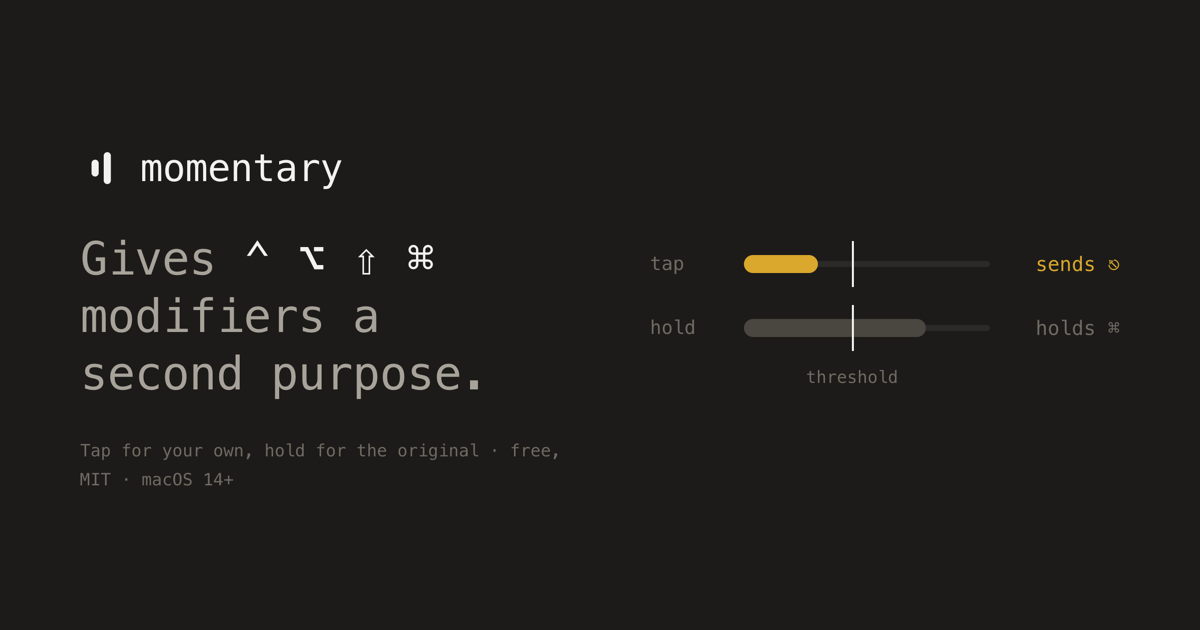
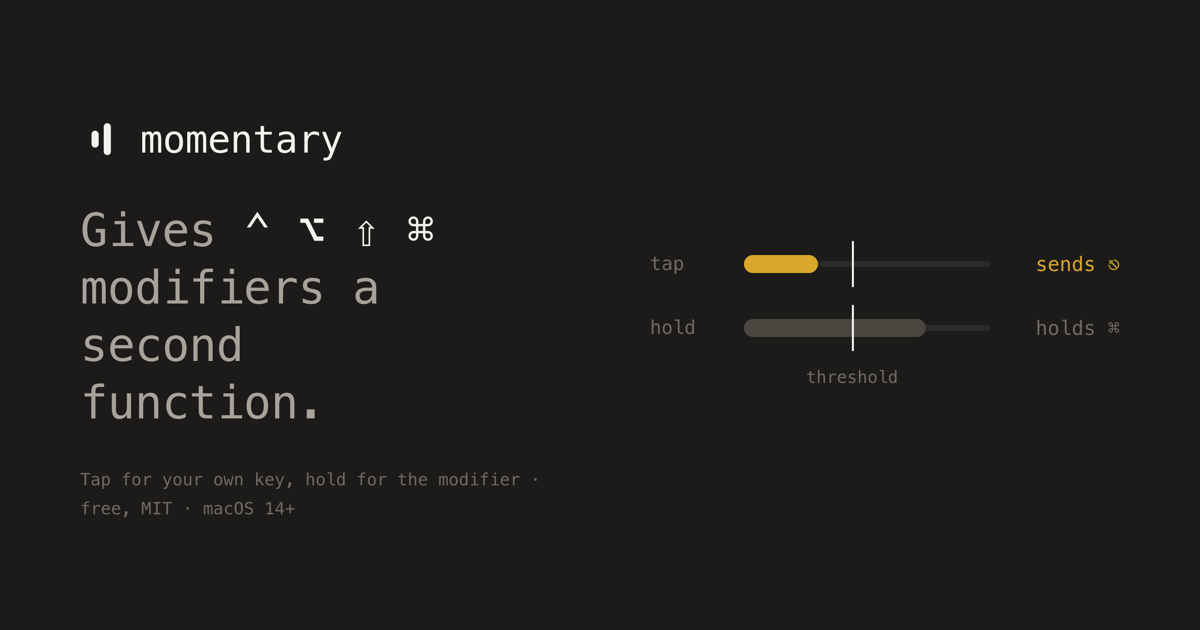
Tighten the landing page
The version is fetched from the releases API instead of written into the
page, the way Keychange's is, so it is right the moment a release is
published. It sits at the front of the install note, which lets the
hardcoded "version 1.0" leave the top bar — it was wrong anyway.

The install row was two boxes tall because the Homebrew command wrapped
and the Download button stretched to match it. The command no longer
wraps and scrolls inside itself instead; below 640px the two stack, full
width. The stacked column has to be `flex-wrap: nowrap`: a wrapping
column flex container sizes its line to the items rather than the page,
so the command kept its full width and took the page's horizontal
scrollbar with it. The button lost its file size and is half as wide.

The footer matches Keychange's on all four pages, and the Keychange
cross-link it used to carry became a section of its own above it — the
same panel-and-hairline surface as the rest of the page, no amber and no
app icon, since amber follows the tap and the settings panel is meant to
be the only light object here.

New slogan throughout: "a second function", "tap for your own key, hold
for the modifier". og.png is regenerated from og.html rather than edited,
so the share card does not keep showing the old wording.

Claude-Session: https://claude.ai/code/session_01WeaS6isy7We31c7dQWmthK

diff --git a/docs/index.html b/docs/index.html
@@ -3,19 +3,19 @@
 <head>
 <meta charset="utf-8">
 <meta name="viewport" content="width=device-width, initial-scale=1">
-<title>Momentary — a second purpose for your modifier keys</title>
-<meta name="description" content="Gives ⌃ ⌥ ⇧ ⌘ modifiers a second purpose. Tap for your own, hold for the original. Any modifier, any key. A small, free macOS app.">
+<title>Momentary — a second function for your modifier keys</title>
+<meta name="description" content="Gives ⌃ ⌥ ⇧ ⌘ modifiers a second function. Tap for your own key, hold for the modifier. Any modifier, any key. A small, free macOS app.">
 <meta name="color-scheme" content="dark">
 <link rel="icon" href="favicon.svg" type="image/svg+xml">
 <meta property="og:type" content="website">
 <meta property="og:url" content="https://dennistimmermann.github.io/momentary/">
 <meta property="og:site_name" content="Momentary">
-<meta property="og:title" content="Momentary — a second purpose for your modifier keys">
+<meta property="og:title" content="Momentary — a second function for your modifier keys">
 <meta property="og:description" content="Tap a modifier and it sends a key of your choosing. Hold it, or use it with anything else, and it is the modifier it always was.">
 <meta property="og:image" content="https://dennistimmermann.github.io/momentary/og.png">
 <meta property="og:image:width" content="1200">
 <meta property="og:image:height" content="630">
-<meta property="og:image:alt" content="Momentary — gives ⌃ ⌥ ⇧ ⌘ modifiers a second purpose. A timing diagram: a short tap sends ⎋, a long hold stays ⌘.">
+<meta property="og:image:alt" content="Momentary — gives ⌃ ⌥ ⇧ ⌘ modifiers a second function. A timing diagram: a short tap sends ⎋, a long hold stays ⌘.">
 <meta name="twitter:card" content="summary_large_image">
 <link rel="stylesheet" href="style.css">
 </head>
@@ -24,7 +24,6 @@
 
   <nav>
     <span class="who">momentary — macOS utility</span>
-    <span>version 1.0</span>
     <span class="links">
       <a href="https://github.com/dennistimmermann/momentary">source</a>
       <a href="https://github.com/dennistimmermann/momentary/releases">releases</a>
@@ -42,8 +41,8 @@
       <span>momentary</span>
     </div>
 
-    <h1>Gives <kbd>⌃ ⌥ ⇧ ⌘</kbd> modifiers a second purpose. Tap for your own,
-      hold for the original. Any modifier, any key.</h1>
+    <h1>Gives <kbd>⌃ ⌥ ⇧ ⌘</kbd> modifiers a second function. Tap for your own key,
+      hold for the modifier. Any modifier, any key.</h1>
   </header>
 
   <section>
@@ -65,10 +64,10 @@
   <section>
     <div class="label">Install</div>
     <div class="install">
-      <a class="download" href="https://github.com/dennistimmermann/momentary/releases/latest/download/Momentary.dmg">Download&nbsp;· 1.1&nbsp;MB</a>
+      <a class="download" href="https://github.com/dennistimmermann/momentary/releases/latest/download/Momentary.dmg">Download</a>
       <div class="command"><span class="prompt">$</span> brew install --cask dennistimmermann/tap/momentary</div>
     </div>
-    <p class="meta">macOS 14 or later · Apple silicon and Intel · free, MIT</p>
+    <p class="meta"><span id="version"></span>macOS 14 or later · Universal · free · MIT</p>
   </section>
 
   <section>
@@ -119,8 +118,19 @@
     </div>
   </section>
 
+  <section>
+    <div class="label">Also</div>
+    <a class="also" href="https://keychange.dev">
+      <span class="also-title">Keychange <em>—</em> One layout per keyboard</span>
+      <span class="also-body">Assign a layout to each of your keyboards. Keychange sits in your
+        menu bar and switches the moment your hands do.</span>
+      <span class="also-go">keychange.dev ↗</span>
+    </a>
+  </section>
+
   <footer>
-    <span>MIT · tmrmn · 2026 · <a href="https://keychange.dev">keychange — input source per keyboard ↗</a></span>
+    <span>© 2026 Dennis Timmermann · MIT · Updates by
+      <a href="https://github.com/sparkle-project/Sparkle">Sparkle</a></span>
     <span class="footer-legal">
       <a href="impressum.html">Impressum</a>
       <a href="privacy.html">Privacy</a>
@@ -130,5 +140,15 @@
   </footer>
 
 </div>
+
+<!-- The version is fetched rather than written into the page, so it is right the moment a release
+     is published and there is one less thing to bump by hand. It prepends itself to the install
+     note; if GitHub is unreachable or rate limits the call, the note simply reads without it. -->
+<script>
+fetch('https://api.github.com/repos/dennistimmermann/momentary/releases/latest')
+  .then(r => r.json())
+  .then(r => { if (r.tag_name) document.getElementById('version').textContent = r.tag_name + ' · '; })
+  .catch(() => {});
+</script>
 </body>
 </html>

diff --git a/docs/style.css b/docs/style.css
@@ -123,10 +123,13 @@ section { padding-bottom: 38px; }
 }
 .download:hover { background: #fff; color: var(--ground); }
 
+/* nowrap, not wrap: the command is one line of shell and reads as one. Letting it wrap doubles
+   this box's height and — since the row stretches — the Download button's with it, which is what
+   made both look enormous. Too narrow to fit, it scrolls inside itself instead. */
 .command {
   flex: 1; min-width: 260px; display: flex; align-items: center; gap: 9px;
   background: var(--panel); border-radius: 6px; padding: 13px 18px;
-  color: var(--ink); font-size: 13px; overflow-x: auto;
+  color: var(--ink); font-size: 13px; overflow-x: auto; white-space: nowrap;
 }
 .command .prompt { color: var(--muted); }   /* not amber — amber is spoken for */
 
@@ -180,6 +183,33 @@ section { padding-bottom: 38px; }
 .highlights p { margin: 0 0 16px; break-inside: avoid; }
 .highlights b { color: var(--ink); font-weight: 500; }
 
+/* ---------- also ----------
+   A quiet cross-link, not a second hero. It borrows the page's own vocabulary — panel fill,
+   hairline, muted arrow — and takes none of its colour: no amber, because amber follows the tap
+   and nothing else, and no app icon, because the settings panel is the one light object here.
+   The whole card is the link, so there is no button competing with Download further up. */
+
+.also {
+  display: block;
+  background: var(--panel);
+  border: 1px solid var(--hairline);
+  border-radius: 8px;
+  padding: 20px 22px;
+}
+.also:hover { border-color: rgba(244, 242, 238, 0.2); }
+
+.also-title { display: block; font-size: 14px; color: var(--ink); }
+.also-title em { font-style: normal; color: var(--muted); }   /* the dash, set back a step */
+
+.also-body {
+  display: block; margin-top: 7px;
+  font-size: 12.5px; color: var(--body); max-width: 58ch;
+}
+
+/* Says where the card goes: it leaves the site, and an underlined title would not say that. */
+.also-go { display: block; margin-top: 14px; font-size: 11px; color: var(--muted); }
+.also:hover .also-go { color: var(--body); }
+
 /* ---------- footer ---------- */
 
 footer {
@@ -191,6 +221,15 @@ footer {
 @media (max-width: 640px) {
   nav .who { display: none; }
   header { padding: 44px 0 34px; }
+  /* Stacked, both full width — at this size the command needs the whole line to show without
+     scrolling, and it is the thing most people copy.
+     `flex-wrap: nowrap` is load-bearing: a *wrapping* column flex container sizes its line to the
+     items' own widths instead of the container's, so the command would keep its full one-line
+     width, refuse to stretch down, and take the page's horizontal scrollbar with it. With the
+     column unwrapped the items stretch to the page and the command scrolls inside itself. */
+  .install { flex-direction: column; flex-wrap: nowrap; }
+  .download { justify-content: center; }
+  .command { min-width: 0; }
   .set { grid-template-columns: 1fr; gap: 24px; }
   .highlights { columns: 1; }
   .trace-row, .threshold-tick { grid-template-columns: 36px 1fr 62px; gap: 12px; }

diff --git a/docs/og.html b/docs/og.html
@@ -64,8 +64,8 @@
       </svg>
       <span>momentary</span>
     </div>
-    <h1>Gives <kbd>⌃ ⌥ ⇧ ⌘</kbd> modifiers a second purpose.</h1>
-    <p class="meta">Tap for your own, hold for the original · free, MIT · macOS 14+</p>
+    <h1>Gives <kbd>⌃ ⌥ ⇧ ⌘</kbd> modifiers a second function.</h1>
+    <p class="meta">Tap for your own key, hold for the modifier · free, MIT · macOS 14+</p>
   </div>
 
   <div class="trace">

diff --git a/docs/privacy.html b/docs/privacy.html
@@ -115,7 +115,8 @@
   </main>
 
   <footer>
-    <span>MIT · tmrmn · 2026</span>
+    <span>© 2026 Dennis Timmermann · MIT · Updates by
+      <a href="https://github.com/sparkle-project/Sparkle">Sparkle</a></span>
     <span class="footer-legal">
       <a href="impressum.html">Impressum</a>
       <a href="privacy.html">Privacy</a>

diff --git a/docs/impressum.html b/docs/impressum.html
@@ -62,7 +62,8 @@
   </main>
 
   <footer>
-    <span>MIT · tmrmn · 2026</span>
+    <span>© 2026 Dennis Timmermann · MIT · Updates by
+      <a href="https://github.com/sparkle-project/Sparkle">Sparkle</a></span>
     <span class="footer-legal">
       <a href="impressum.html">Impressum</a>
       <a href="privacy.html">Privacy</a>

diff --git a/docs/terms.html b/docs/terms.html
@@ -89,7 +89,8 @@
   </main>
 
   <footer>
-    <span>MIT · tmrmn · 2026</span>
+    <span>© 2026 Dennis Timmermann · MIT · Updates by
+      <a href="https://github.com/sparkle-project/Sparkle">Sparkle</a></span>
     <span class="footer-legal">
       <a href="impressum.html">Impressum</a>
       <a href="privacy.html">Privacy</a>
